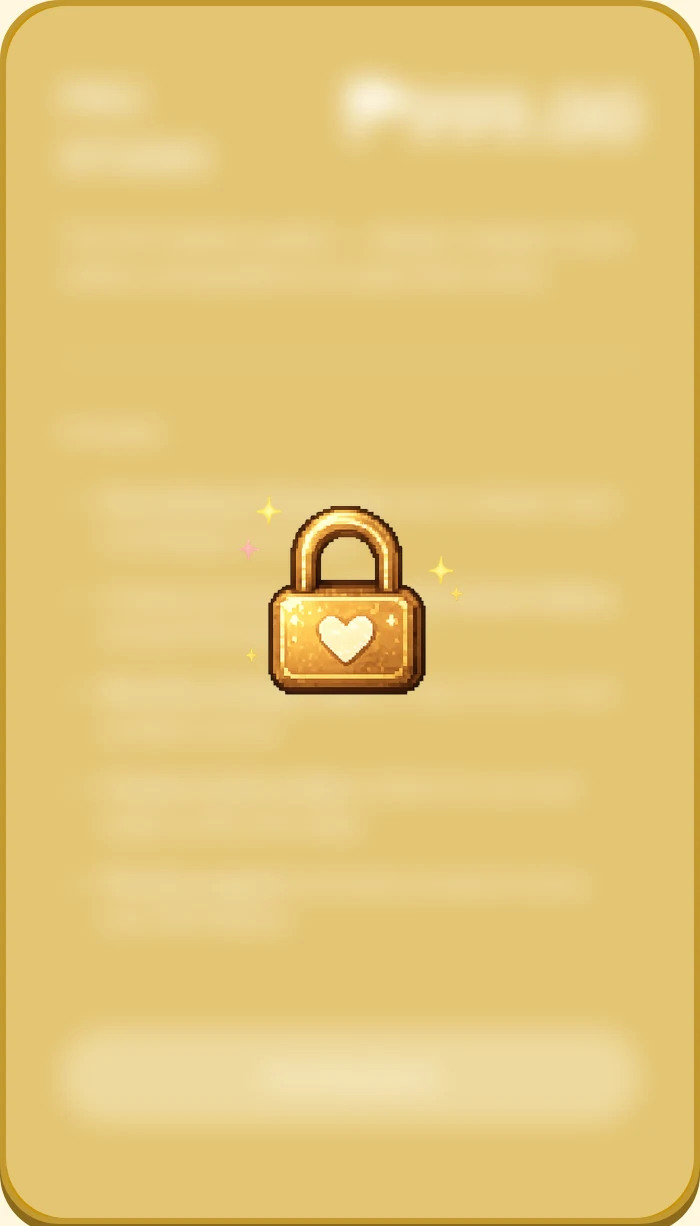
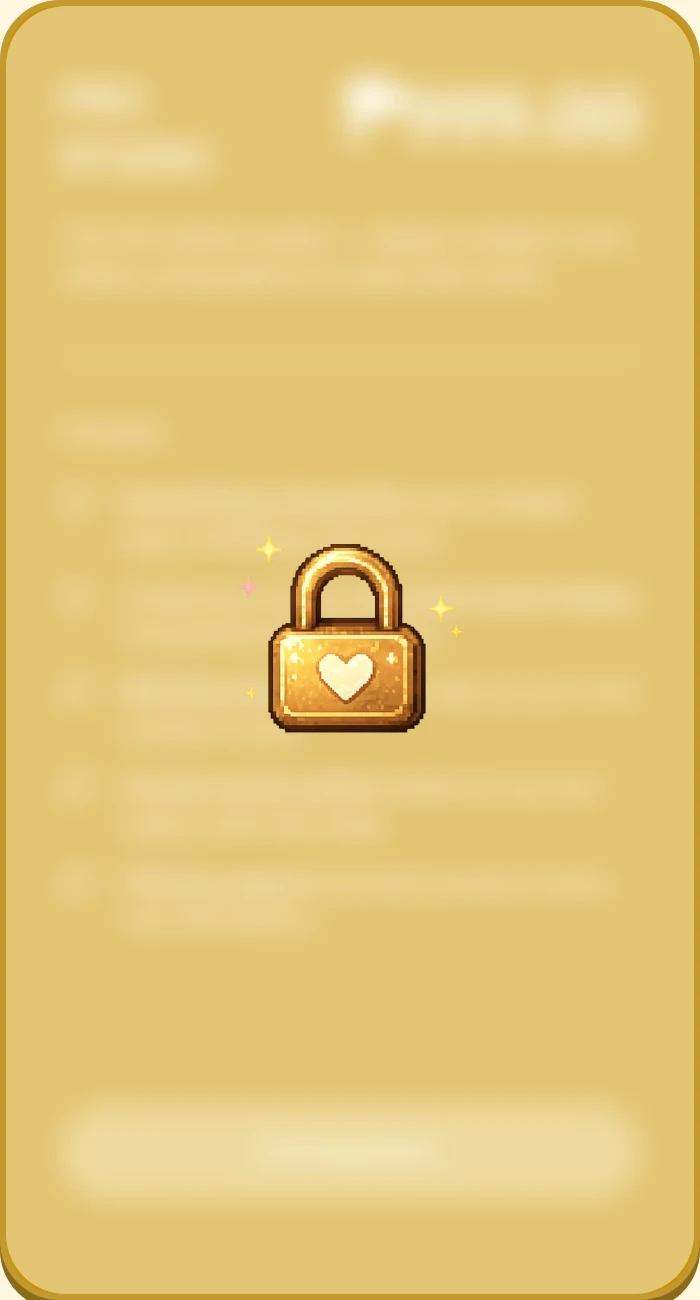
feat(landing): check-circle pricing bullets + iOS Safari seam fixes
Pricing cards:
- Replace list-disc markers with lucide CircleCheckBig icons (15px,
  gap-16px) on all three tiers; re-bake the locked-card images and bump
  LockedCard height 612 -> 650 to match the taller stretched cards.
- Recolor the scribble-out over the old ₱799 price to brand cream.

iOS Safari seam fixes:
- Paint the page backdrop on document.body instead of a fixed z-index:-1
  div, so GPU-promoted scroll content composites without a ~0.5px seam.
- Drop will-change:transform on .hero-tail (the pinned layer rasterized a
  faint hairline over the fixed background).
- overflow-x-clip on the hero (was overflow-hidden).

diff --git a/src/components/landing/ScrollBackground.tsx b/src/components/landing/ScrollBackground.tsx
@@ -1,6 +1,6 @@
 'use client';
 
-import { useEffect, useMemo, useRef } from 'react';
+import { useEffect, useMemo } from 'react';
 import { setPageColors } from '@/stores/pageBackgroundStore';
 import { subscribeScroll } from '@/lib/scroll/scrollTicker';
 import {
@@ -64,9 +64,7 @@ interface Props {
 export default function ScrollBackground({
   stops = STOPS,
   realBgStopCount = REAL_BG_STOP_COUNT,
-}: Props = {}): React.ReactElement {
-  const bgRef = useRef<HTMLDivElement>(null);
-
+}: Props = {}): null {
   // Resolve the palette from the stops. A segment `i` blends stops i and i+1, so
   // the last real-bg segment is the one ending on the last real-bg stop; past it
   // the real background holds the last painted color while the header keeps
@@ -127,9 +125,9 @@ export default function ScrollBackground({
       // every stop. The fixed div paints the REAL page background, which only
       // follows the leading stops and then holds the last painted color.
       const publish = (headerBg: string, headerFg: string, realBg: string) => {
-        // Paint the fixed div imperatively so the background color tween never
-        // triggers a React render of this component each frame.
-        if (bgRef.current) bgRef.current.style.backgroundColor = realBg;
+        // Paint the page backdrop imperatively so the background color tween
+        // never triggers a React render of this component each frame.
+        document.body.style.backgroundColor = realBg;
         setPageColors({ background: headerBg, foreground: headerFg });
       };
 
@@ -183,6 +181,18 @@ export default function ScrollBackground({
     // resize, or any change to the document's size (font swaps, late image loads,
     // the intro overlay unmounting) caught by a ResizeObserver on <body>. The
     // cached positions stay valid for every scroll frame in between.
+    // Paint the page backdrop on the document body (not a fixed z-index:-1 div).
+    // A fixed full-screen element is its OWN compositing layer, and on iOS Safari
+    // the boundary between it and any GPU-promoted content layer above it (the
+    // scroll scrubbers' transforms, will-change, overflow clips) rasterizes to a
+    // faint ~0.5px seam. The body background is the document canvas, not a
+    // discrete layer, so promoted content composites against it cleanly — no
+    // seam. It also covers the iOS rubber-band overscroll area, which the fixed
+    // div didn't. Restore the prior inline value on unmount so sub-pages (which
+    // don't mount this) fall back to the stylesheet background.
+    const prevBodyBg = document.body.style.backgroundColor;
+    document.body.style.backgroundColor = toRgb(rgbStops[0]);
+
     remeasure();
     const ro = new ResizeObserver(() => remeasure());
     ro.observe(document.body);
@@ -196,19 +206,10 @@ export default function ScrollBackground({
       ro.disconnect();
       window.removeEventListener('resize', remeasure);
       unsubscribe();
+      document.body.style.backgroundColor = prevBodyBg;
     };
   }, [stops, rgbStops, rgbFgStops, lastRealBgSeg, realBgHold]);
 
-  return (
-    <div
-      ref={bgRef}
-      aria-hidden
-      style={{
-        position: 'fixed',
-        inset: 0,
-        zIndex: -1,
-        backgroundColor: toRgb(rgbStops[0]),
-      }}
-    />
-  );
+  // Renders nothing — the backdrop now lives on document.body (see the effect).
+  return null;
 }

diff --git a/src/components/ui/PricingCard.tsx b/src/components/ui/PricingCard.tsx
@@ -1,3 +1,5 @@
+import { CircleCheckBig } from 'lucide-react';
+
 type PricingCardVariant = 'light' | 'featured' | 'gold';
 
 interface PricingCardProps {
@@ -87,7 +89,7 @@ export default function PricingCard({
                     ends so it looks like a drawn slash. */}
                 <span
                   aria-hidden="true"
-                  className="absolute top-1/2 left-[-9px] h-[5px] w-[155px] -translate-y-1/2 rotate-[5.72deg] rounded-full bg-[#e34b5e]"
+                  className="bg-brand-cream absolute top-1/2 left-[-9px] h-[5px] w-[155px] -translate-y-1/2 rotate-[5.72deg] rounded-full"
                 />
               </span>
             )}
@@ -121,12 +123,18 @@ export default function PricingCard({
           Includes:
         </p>
         <ul
-          className={`list-disc space-y-[10px] ps-[20px] font-sans text-[13px] leading-[1.45] tracking-[-0.065px] ${
+          className={`space-y-[10px] font-sans text-[13px] leading-[1.45] tracking-[-0.065px] ${
             featured ? 'mt-[11px] max-w-[280px]' : 'mt-[16px]'
           }`}
         >
           {features.map((feature, index) => (
-            <li key={index}>{feature}</li>
+            <li key={index} className="flex gap-[16px]">
+              <CircleCheckBig
+                aria-hidden="true"
+                className="mt-[2px] size-[15px] shrink-0"
+              />
+              <span>{feature}</span>
+            </li>
           ))}
         </ul>
       </div>

diff --git a/src/animations/keyframes.css b/src/animations/keyframes.css
@@ -205,7 +205,11 @@
    to 0 so the full phrase is centred. */
 .hero-tail {
   animation: hero-tail-shift 10.5s ease infinite;
-  will-change: transform;
+  /* No `will-change: transform` here on purpose. It pins a permanent GPU
+     backing layer for this span, and on iOS Safari that layer's bottom edge
+     rasterizes to a faint ~0.5px gray hairline over the fixed page background
+     (the line under "succeeds… or flops"). The shift is a slow 10.5s loop, so
+     the perf cost of letting the engine promote on demand is negligible. */
 }
 .hero-dot-1 {
   animation: hero-dot-1 10.5s ease infinite;

diff --git a/src/components/landing/Pricing.tsx b/src/components/landing/Pricing.tsx
@@ -16,7 +16,7 @@ import { betaDeepDive } from './pricingTiers';
  * laid on top. To regenerate them after a copy/price/design change, edit
  * pricingTiers.tsx and run scripts/rebake-locked-cards.cjs.
  *
- * The bakes are 350x612 — the card width and its (stretched) height. Keep this
+ * The bakes are 350x650 — the card width and its (stretched) height. Keep this
  * in sync with the rebake script's logged dimensions if the design height
  * changes.
  */
@@ -27,7 +27,7 @@ function LockedCard({ src }: { src: string }): React.ReactElement {
         src={src}
         alt="Locked plan — coming soon"
         width={350}
-        height={612}
+        height={650}
         className="h-auto w-full rounded-[30px]"
       />
     </div>

diff --git a/src/components/landing/Hero.tsx b/src/components/landing/Hero.tsx
@@ -23,7 +23,7 @@ export default function Hero(): React.ReactElement {
   return (
     <section
       id="bg-stop-hero"
-      className="hero-viewport relative flex items-center justify-center overflow-hidden px-5 sm:px-8 md:px-16"
+      className="hero-viewport relative flex items-center justify-center overflow-x-clip px-5 sm:px-8 md:px-16"
     >
       {/* The block's bottom margin and the button row's mt (the clamp below)
           always sum to a constant, so the centred headline/subtext hold their